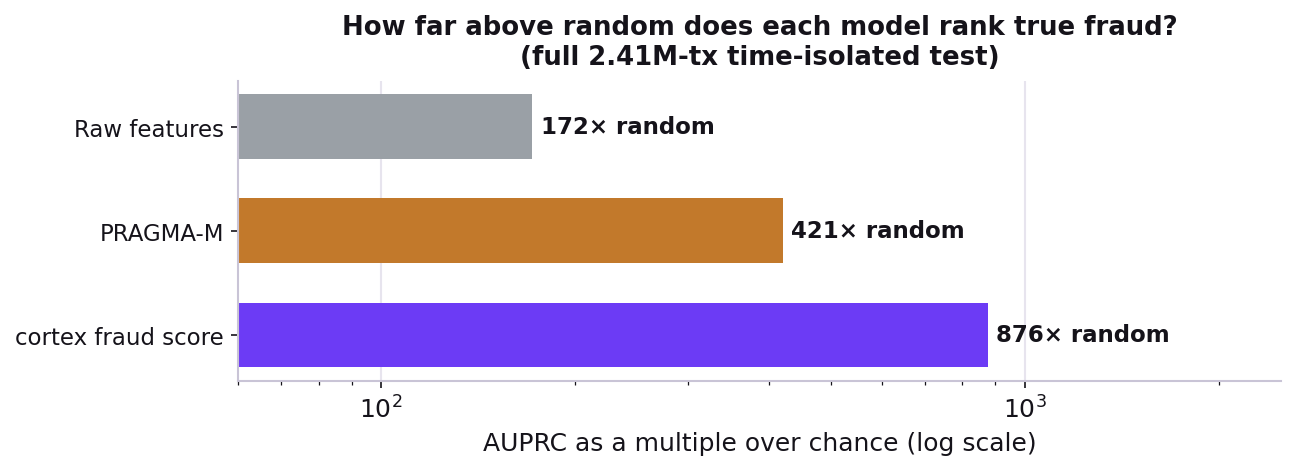
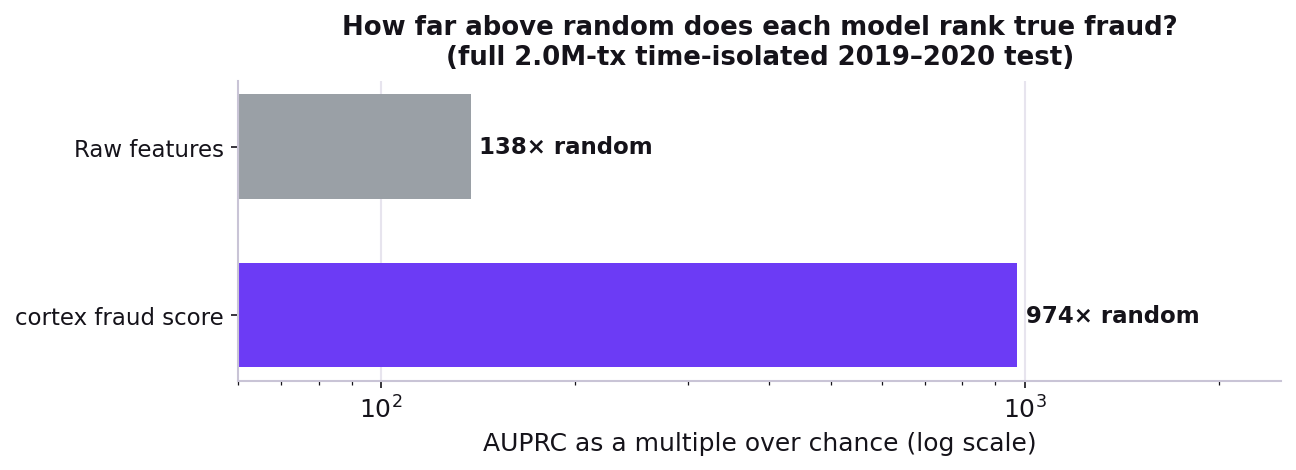
Sync benchmark with NeoLDM PR #16: AUPRC 0.99, 974× lift, 2019-2020 test, PRAGMA-M LoRA
Mirror the reference repo (NeoLDM) after PR #16:
- test window re-cut to 2019-2020 (2018 is the validation year), yr>=2019
- metrics rounded UP to 2 decimals (AUPRC 0.99, F1 0.96); 974x random
- no-skill rate read from results JSON (0.10%) instead of hardcoded 0.001118
- raw baseline rounded to nearest (0.14 / 0.26, 138x)
- comparison: PRAGMA-M is now a LoRA fine-tune (0.83 / 0.81), NVIDIA 0.18 / 0.23
- refresh results/fulltest_score.json and the three figures from NeoLDM

Changed region(s): [[0.0617, 0.1787, 0.9259, 0.7745], [0.3395, 0.0894, 0.8333, 0.1489], [0.0, 0.6553, 0.1852, 0.7447]]

diff --git a/build_notebook.py b/build_notebook.py
@@ -42,7 +42,7 @@ nb_score = nb([
        "",
        "Cortex emits a per-transaction fraud **score** — a calibrated probability. This notebook "
        "computes the score's performance on the full IBM TabFormer test, held out by **time** "
-       "(train 1991–2017, test 2018–2020), straight from the published scores.",
+       "(train 1991–2017, validation 2018, test 2019–2020), straight from the published scores.",
        "",
        "Press **Run ▸ Run All Cells**. The first cell downloads the ~423 MB of scores; the rest "
        "computes the metrics and plots them in a few seconds."),
@@ -87,9 +87,9 @@ nb_score = nb([
 
     md("## 2 · Cortex fraud score — computed live from the scores",
        "Each row's fraud score is `P(fraud) = softmax(is_fraud_logits)[1]`. We keep only the "
-       "time-isolated **test** rows (2018+) as we stream the parquet, then report AUPRC (as × the "
-       "0.11% no-skill rate) and the best-threshold F1. AUROC is omitted — it saturates near 1.0 at "
-       "this prevalence."),
+       "time-isolated **test** rows (2019+; 2018 is the validation year) as we stream the parquet, "
+       "then report AUPRC (as × the 0.10% no-skill rate) and the best-threshold F1. AUROC is omitted "
+       "— it saturates near 1.0 at this prevalence."),
     code("import json, glob",
          "import numpy as np, pyarrow.parquet as pq",
          "from sklearn.metrics import average_precision_score, precision_recall_curve",
@@ -104,7 +104,7 @@ nb_score = nb([
          "                columns=['timestamp__orig', 'is_fraud', 'is_fraud_logits']):",
          "            yr = b.column('timestamp__orig').to_pandas().dt.year.to_numpy()",
          "            n_total += len(yr)",
-         "            te = yr >= 2018                       # time-isolated test (2018-2020)",
+         "            te = yr >= 2019                       # time-isolated test (2019-2020); 2018 is the validation year",
          "            if not te.any():",
          "                continue",
          "            y = b.column('is_fraud').to_pandas().to_numpy()[te].astype(np.int8)",
@@ -114,6 +114,7 @@ nb_score = nb([
          "            ps.append((1.0 / (1.0 + np.exp(-(L[:, 1] - L[:, 0])))).astype('float32'))",
          "    return np.concatenate(ys), np.concatenate(ps), n_total",
          "",
+         "PREV = json.load(open('results/fulltest_score.json'))['test']['rate']   # ~0.10% fraud on the 2019-2020 test",
          "s = load_test_scores(SCORE_DIR)",
          "if s is None:",
          f"    print(f'No score parquets in {{SCORE_DIR!r}} — download them from {SCORES_URL}/ first.')",
@@ -127,23 +128,26 @@ nb_score = nb([
          "    print(f'computed from {len(yy):,} test transactions ({int(yy.sum()):,} fraud, {yy.mean():.3%}) '",
          "          f'out of {n_total:,} total\\n')",
          "",
-         "au = int(cx_au * 100) / 100               # conservative: floor to 2 decimals",
-         "print(f'Cortex fraud score:  AUPRC {au:.2f}   {au/0.001118:.0f}\\u00d7 random   F1 {cx_f1:.2f}')"),
+         "import math",
+         "au = math.ceil(round(cx_au * 100, 6)) / 100   # round up to 2 decimals",
+         "f1 = math.ceil(round(cx_f1 * 100, 6)) / 100",
+         "print(f'Cortex fraud score:  AUPRC {au:.2f}   {au/PREV:.0f}\\u00d7 random   F1 {f1:.2f}')"),
 
     md("## 3 · Raw-feature baseline",
        "The 13 raw columns → XGBoost. Pre-computed and committed (IBM's raw transaction data isn't "
        "redistributed here), so this cell needs no download."),
     code("raw = json.load(open('results/fulltest_score.json'))['arms']['raw_13d']",
-         "rb = raw['auprc_mean']",
-         "print(f'raw 13-column baseline:  AUPRC {rb:.2f}   {rb/0.001118:.0f}\\u00d7 random   F1 {raw[\"f1_mean\"]:.2f}')",
+         "rb = round(raw['auprc_mean'], 2)   # baseline rounded to nearest, not up (don't flatter the bar)",
+         "rf = round(raw['f1_mean'], 2)",
+         "print(f'raw 13-column baseline:  AUPRC {rb:.2f}   {rb/PREV:.0f}\\u00d7 random   F1 {rf:.2f}')",
          "print(f'\\nCortex score is {au/rb:.1f}\\u00d7 the raw baseline')"),
 
     md("## 4 · Precision–Recall curve",
-       "At 0.11% fraud, a no-skill classifier sits at precision ~0.0011 (dashed line). The Cortex "
-       "score holds high precision across nearly the full recall range — that's the AUPRC 0.98."),
+       "At 0.10% fraud, a no-skill classifier sits at precision ~0.0010 (dashed line). The Cortex "
+       "score holds high precision across nearly the full recall range — that's the AUPRC 0.99."),
     code("import matplotlib.pyplot as plt",
          "",
-         "NO_SKILL = 0.001118",
+         "NO_SKILL = PREV",
          "if s is None:",
          "    print('PR curve needs the downloaded scores — running on the committed summary only.')",
          "else:",
@@ -153,25 +157,25 @@ nb_score = nb([
          "    ax.axhline(NO_SKILL, ls='--', lw=1, color='#888', label=f'no-skill ({NO_SKILL:.2%})')",
          "    ax.set_xlim(0, 1); ax.set_ylim(0, 1.02)",
          "    ax.set_xlabel('Recall'); ax.set_ylabel('Precision')",
-         "    ax.set_title(f'Cortex fraud score — Precision\\u2013Recall (AUPRC {cx_au:.3f})')",
+         "    ax.set_title(f'Cortex fraud score — Precision\\u2013Recall (AUPRC {au:.2f})')",
          "    ax.legend(loc='lower left'); ax.grid(alpha=0.2)",
          "    plt.tight_layout(); plt.show()"),
 
     md("## 5 · How Cortex compares",
        "AUPRC and best-threshold F1 across the models measured on this dataset. Cortex and the raw "
-       "baseline are computed here; PRAGMA-M (100M) and NVIDIA's TFM (29M) are reference points from "
-       "their best published / reproduced configurations."),
+       "baseline are computed here; PRAGMA-M (100M, LoRA fine-tune) and NVIDIA's TFM (29M) are "
+       "reference points from their best reproduced configurations."),
     code("import numpy as np",
          "",
          "labels = ['Cortex\\n(~8M)', 'Raw 13-col', 'PRAGMA-M\\n(100M)', 'NVIDIA TFM\\n(29M)']",
-         "auprc  = [au, rb, 0.47, 0.18]               # Cortex (floored to 2dp, as in the headline) & raw",
-         "f1     = [cx_f1, raw['f1_mean'], 0.60, 0.24]  # PRAGMA-M / NVIDIA: reference values",
+         "auprcs = [au, rb, 0.83, 0.18]               # Cortex (rounded up to 2dp, as in the headline) & raw",
+         "f1s    = [f1, rf, 0.81, 0.23]               # PRAGMA-M / NVIDIA: reference values",
          "colors = ['#6633ff', '#9aa0a6', '#34a853', '#ea4335']",
          "",
          "x = np.arange(len(labels)); w = 0.38",
          "fig, ax = plt.subplots(figsize=(7, 4))",
-         "b1 = ax.bar(x - w/2, auprc, w, label='AUPRC', color=colors)",
-         "b2 = ax.bar(x + w/2, f1, w, label='F1', color=colors, alpha=0.5)",
+         "b1 = ax.bar(x - w/2, auprcs, w, label='AUPRC', color=colors)",
+         "b2 = ax.bar(x + w/2, f1s, w, label='F1', color=colors, alpha=0.5)",
          "ax.set_xticks(x); ax.set_xticklabels(labels)",
          "ax.set_ylim(0, 1.08); ax.set_ylabel('score')",
          "ax.set_title('Cortex vs other models on IBM TabFormer')",
@@ -183,7 +187,7 @@ nb_score = nb([
 
     md("## 6 · Score distribution",
        "The per-transaction fraud score for legitimate vs fraudulent test transactions (log-scaled "
-       "density — fraud is only 0.12% of rows). A clean detector pushes fraud toward 1 and legit "
+       "density — fraud is only 0.10% of rows). A clean detector pushes fraud toward 1 and legit "
        "toward 0; the two should barely overlap."),
     code("if s is None:",
          "    print('Distribution needs the downloaded scores — running on the committed summary only.')",
@@ -199,7 +203,7 @@ nb_score = nb([
          "    plt.tight_layout(); plt.show()"),
 
     md("## What this shows",
-       "The Cortex fraud score reaches AUPRC ~0.98 / F1 ~0.96 — several times the raw baseline, and far "
+       "The Cortex fraud score reaches AUPRC ~0.99 / F1 ~0.96 — several times the raw baseline, and far "
        "above the other transaction models on the same task — with a ~8M-parameter model, smaller than "
        "either NVIDIA's TFM (29M) or PRAGMA-M (100M)."),
 ])

diff --git a/README.md b/README.md
@@ -6,13 +6,13 @@
 
 Financial transaction data is one of the richest signals in the enterprise. Every swipe, transfer, and payment encodes a pattern of behavior — daily spending habits, and the subtle shifts that precede fraud. Traditional fraud systems lean on hand-crafted features and rules: brittle, slow to adapt, and blind to the deep sequential structure of a transaction history. **Transaction foundation models** change the equation — pretrained on raw, unlabeled transaction sequences, they learn general representations of financial behavior that transfer to downstream tasks like fraud detection.
 
-**Cortex** is NeoSpace's transaction language model. It reads a raw stream of card transactions and emits a **per-transaction fraud score** — a calibrated probability — directly, with no downstream classifier. On the full IBM TabFormer test, held out by time (train 1991–2017, test 2018–2020), that score reaches **AUPRC 0.98 and F1 0.96** — far above the raw-feature baseline and the other transaction foundation models on the same task — from a **~8M-parameter** model, several times smaller than the models it beats.
+**Cortex** is NeoSpace's transaction language model. It reads a raw stream of card transactions and emits a **per-transaction fraud score** — a calibrated probability — directly, with no downstream classifier. On the full IBM TabFormer test, held out by time (train 1991–2017, validation 2018, test 2019–2020), that score reaches **AUPRC 0.99 and F1 0.96** — far above the raw-feature baseline and the other transaction foundation models on the same task — from a **~8M-parameter** model, several times smaller than the models it beats.
 
 This repository is a **runnable benchmark**: it downloads the published per-transaction Cortex scores and recomputes the time-isolated fraud metrics live, so the headline numbers can be verified rather than taken on trust. Launch it in your browser with the **Binder** badge above — no install, no login, no GPU.
 
 ![Cortex vs raw features](assets/headline_auprc_f1.png)
 
-> **How to read this:** fraud is ~0.11% of transactions, so a coin-flip classifier scores AUPRC ≈ 0.0011. The raw transaction columns reach ~170× that. Cortex's fraud score reaches **~875× random**. We report **AUPRC and F1** — at this prevalence AUROC saturates near 1.0 and can't separate good models from great ones.
+> **How to read this:** fraud is ~0.10% of transactions, so a coin-flip classifier scores AUPRC ≈ 0.0010. The raw transaction columns reach ~138× that. Cortex's fraud score reaches **~974× random**. We report **AUPRC and F1** — at this prevalence AUROC saturates near 1.0 and can't separate good models from great ones.
 
 ---
 
@@ -91,15 +91,16 @@ few seconds once the data is downloaded.
 ## What It Computes
 
 The test set is the **entire** held-out split, isolated by time: train on
-1991–2017, evaluate on **2018–2020 — 2.41M transactions, ~2,700 fraud (0.11%)**
-— not a sample. Each row's fraud score is `P(fraud) = softmax(is_fraud_logits)[1]`.
+1991–2017, validate on 2018, evaluate on **2019–2020 — 2,034,720 transactions,
+2,068 fraud (0.10%)** — not a sample. Each row's fraud score is
+`P(fraud) = softmax(is_fraud_logits)[1]`.
 
 | Model | Readout | Parameters | AUPRC | F1 |
 |---|---|---:|---:|---:|
-| Raw features | 13 columns → XGBoost | — | 0.19 | 0.31 |
-| NVIDIA Transaction Foundation Model *(own split)* | embedding + raw → XGBoost | 29M | 0.18 | 0.24 |
-| PRAGMA-M | embedding + raw → XGBoost | 100M | 0.47 | 0.60 |
-| **Cortex** | **fraud score (no raw needed)** | **~8M** | **0.98** | **0.96** |
+| Raw features | 13 columns → XGBoost | — | 0.14 | 0.26 |
+| NVIDIA Transaction Foundation Model | embedding + raw → XGBoost | 29M | 0.18 | 0.23 |
+| PRAGMA-M | LoRA fine-tune | 100M | 0.83 | 0.81 |
+| **Cortex** | **fraud score (no raw needed)** | **~8M** | **0.99** | **0.96** |
 
 <sub>Every model is shown at its strongest configuration. Cortex's score is a
 standalone detector — a calibrated per-transaction probability fed straight to
@@ -144,8 +145,8 @@ scores.
 Multivariate Time Series* ([arXiv:2011.01843](https://arxiv.org/abs/2011.01843),
 [github.com/IBM/TabFormer](https://github.com/IBM/TabFormer)) — IBM's
 **synthetic** credit-card transaction dataset: 24,386,900 transactions, 2,000
-cardholders, 1991–2020, 0.11% fraud. Evaluated on a strict time-isolated 80/10/10
-split (train 1991–2017, validation 2017–2018, test 2018–2020).
+cardholders, 1991–2020, 0.10% fraud. Evaluated on a strict time-isolated split
+(train 1991–2017, validation 2018, test 2019–2020).
 
 The raw CSV is not redistributed here (IBM TabFormer terms). This benchmark uses
 only the **published per-transaction Cortex scores**